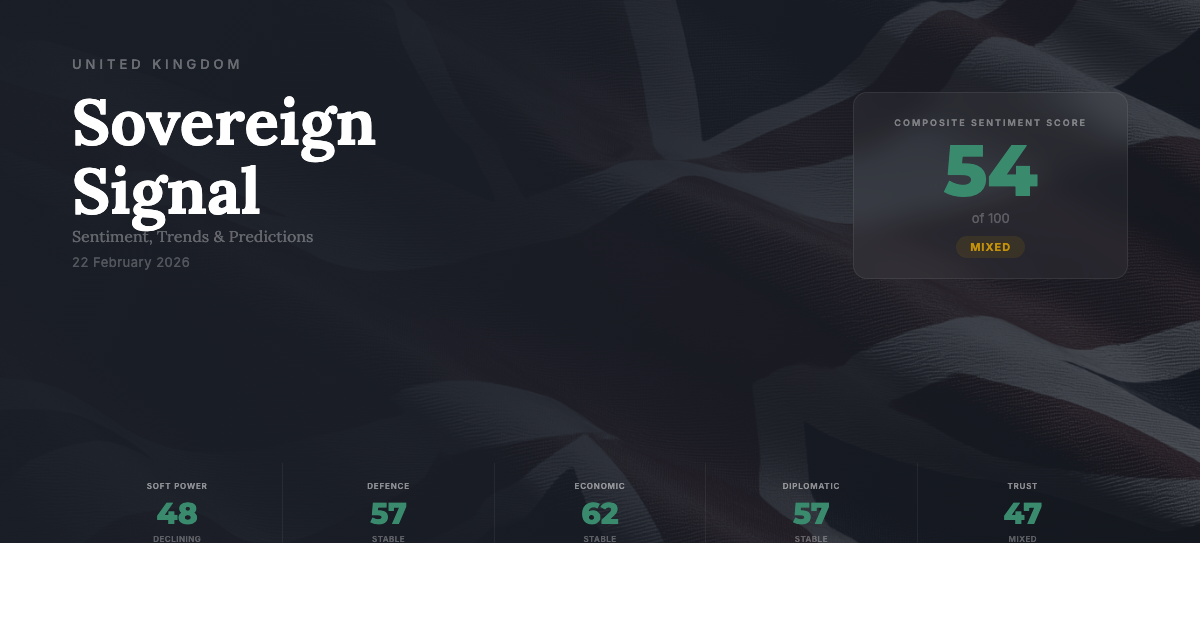
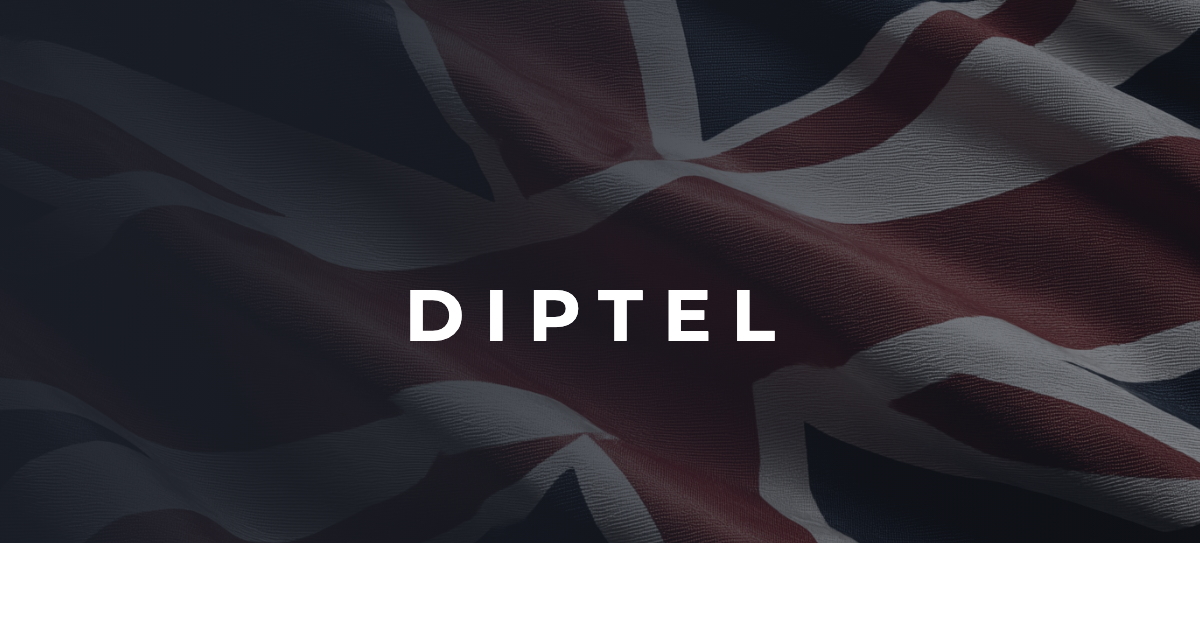
Minimal OG image — Union Jack with translucent overlay, DIPTEL centred

diff --git a/sovereign-signal/og-image.html b/sovereign-signal/og-image.html
@@ -2,85 +2,18 @@
 <html><head><meta charset="UTF-8">
 <style>
 * { margin: 0; padding: 0; box-sizing: border-box; }
-body { width: 1200px; height: 630px; overflow: hidden; font-family: 'Inter', -apple-system, sans-serif; }
-.card { width: 1200px; height: 630px; background: #1a1e27; position: relative; overflow: hidden; }
-.flag { position: absolute; top: 0; left: 0; right: 0; bottom: 0; background: url('union-flag.png') center center / cover no-repeat; opacity: 0.35; filter: saturate(0.4) contrast(1.1); }
-.overlay { position: absolute; top: 0; left: 0; right: 0; bottom: 0; background: linear-gradient(115deg, rgba(26,30,39,0.97) 0%, rgba(26,30,39,0.92) 35%, rgba(26,30,39,0.65) 65%, rgba(26,30,39,0.35) 100%); }
-.content { position: relative; z-index: 2; padding: 56px 72px 0; }
-.eyebrow { font-size: 13px; font-weight: 500; letter-spacing: 4px; text-transform: uppercase; color: rgba(255,255,255,0.35); margin-bottom: 16px; }
-.title-row { display: flex; align-items: flex-start; justify-content: space-between; margin-bottom: 12px; }
-.title { font-family: 'Lora', Georgia, serif; font-size: 64px; font-weight: 700; color: #FFFFFF; line-height: 1.08; }
-.score-block { text-align: center; background: rgba(255,255,255,0.04); border: 1px solid rgba(255,255,255,0.08); border-radius: 14px; padding: 24px 40px 20px; backdrop-filter: blur(12px); margin-top: 4px; }
-.score-label { font-size: 9px; font-weight: 600; letter-spacing: 2px; text-transform: uppercase; color: rgba(255,255,255,0.4); margin-bottom: 6px; }
-.score-num { font-family: 'Montserrat', sans-serif; font-size: 72px; font-weight: 800; color: #3A8A6E; line-height: 1; }
-.score-of { font-size: 13px; color: rgba(255,255,255,0.25); margin-top: 4px; }
-.score-posture { display: inline-block; margin-top: 10px; font-size: 11px; font-weight: 700; letter-spacing: 1px; text-transform: uppercase; color: #C4920A; background: rgba(196,146,10,0.12); padding: 4px 14px; border-radius: 20px; }
-.subtitle { font-size: 16px; color: rgba(255,255,255,0.32); font-family: 'Lora', Georgia, serif; }
-.date-line { font-size: 13px; color: rgba(255,255,255,0.25); margin-top: 8px; letter-spacing: 0.5px; }
-.pillars { position: absolute; bottom: 72px; left: 0; right: 0; z-index: 2; display: flex; padding: 0 72px; }
-.pillar { flex: 1; text-align: center; padding: 18px 8px 14px; border-right: 1px solid rgba(255,255,255,0.06); }
-.pillar:last-child { border-right: none; }
-.pillar-name { font-size: 8px; font-weight: 600; letter-spacing: 0.8px; text-transform: uppercase; color: rgba(255,255,255,0.5); margin-bottom: 8px; }
-.pillar-num { font-family: 'Montserrat', sans-serif; font-size: 30px; font-weight: 800; color: #3A8A6E; line-height: 1; margin-bottom: 5px; }
-.pillar-post { font-size: 8px; font-weight: 600; letter-spacing: 0.5px; text-transform: uppercase; color: rgba(255,255,255,0.3); }
-.brand { position: absolute; bottom: 28px; left: 72px; display: flex; align-items: center; gap: 12px; z-index: 2; }
-.brand-logo { font-family: 'Montserrat', sans-serif; font-weight: 700; font-size: 13px; letter-spacing: 0.06em; color: rgba(255,255,255,0.25); text-transform: uppercase; }
-.brand-divider { width: 1px; height: 14px; background: rgba(255,255,255,0.08); }
-.brand-label { font-size: 10px; font-weight: 400; letter-spacing: 1px; color: rgba(255,255,255,0.15); text-transform: uppercase; }
+body { width: 1200px; height: 630px; overflow: hidden; }
+.card { width: 1200px; height: 630px; background: #1a1e27; position: relative; overflow: hidden; display: flex; align-items: center; justify-content: center; }
+.flag { position: absolute; top: 0; left: 0; right: 0; bottom: 0; background: url('union-flag.png') center center / cover no-repeat; opacity: 0.5; filter: saturate(0.6) contrast(1.05); }
+.overlay { position: absolute; top: 0; left: 0; right: 0; bottom: 0; background: linear-gradient(105deg, rgba(26,30,39,0.92) 0%, rgba(26,30,39,0.85) 22%, rgba(26,30,39,0.55) 48%, rgba(26,30,39,0.25) 72%, rgba(26,30,39,0.12) 100%); }
+.title { position: relative; z-index: 2; font-family: 'Montserrat', sans-serif; font-size: 72px; font-weight: 700; color: #FFFFFF; letter-spacing: 0.28em; text-transform: uppercase; }
 </style>
-<link href="https://fonts.googleapis.com/css2?family=Inter:wght@400;500;600;700&family=Lora:wght@400;600;700&family=Montserrat:wght@700;800&display=swap" rel="stylesheet">
+<link href="https://fonts.googleapis.com/css2?family=Montserrat:wght@700;800&display=swap" rel="stylesheet">
 </head>
 <body>
 <div class="card">
   <div class="flag"></div>
   <div class="overlay"></div>
-  <div class="content">
-    <div class="eyebrow">United Kingdom</div>
-    <div class="title-row">
-      <div>
-        <div class="title">Sovereign<br>Signal</div>
-        <div class="subtitle">Sentiment, Trends &amp; Predictions</div>
-        <div class="date-line">22 February 2026</div>
-      </div>
-      <div class="score-block">
-        <div class="score-label">Composite Sentiment Score</div>
-        <div class="score-num">55</div>
-        <div class="score-of">of 100</div>
-        <div class="score-posture">MIXED</div>
-      </div>
-    </div>
-  </div>
-  <div class="pillars">
-    <div class="pillar">
-      <div class="pillar-name">Soft Power</div>
-      <div class="pillar-num">48</div>
-      <div class="pillar-post">DECLINING</div>
-    </div>
-    <div class="pillar">
-      <div class="pillar-name">Defence</div>
-      <div class="pillar-num">57</div>
-      <div class="pillar-post">STABLE</div>
-    </div>
-    <div class="pillar">
-      <div class="pillar-name">Economic</div>
-      <div class="pillar-num">62</div>
-      <div class="pillar-post">STABLE</div>
-    </div>
-    <div class="pillar">
-      <div class="pillar-name">Diplomatic</div>
-      <div class="pillar-num">57</div>
-      <div class="pillar-post">STABLE</div>
-    </div>
-    <div class="pillar">
-      <div class="pillar-name">Trust</div>
-      <div class="pillar-num">53</div>
-      <div class="pillar-post">UNDER PRESSURE</div>
-    </div>
-  </div>
-  <div class="brand">
-    <span class="brand-logo">DipTel</span>
-    <span class="brand-divider"></span>
-    <span class="brand-label">Powered by NOAH</span>
-  </div>
+  <div class="title">DIPTEL</div>
 </div>
 </body></html>
